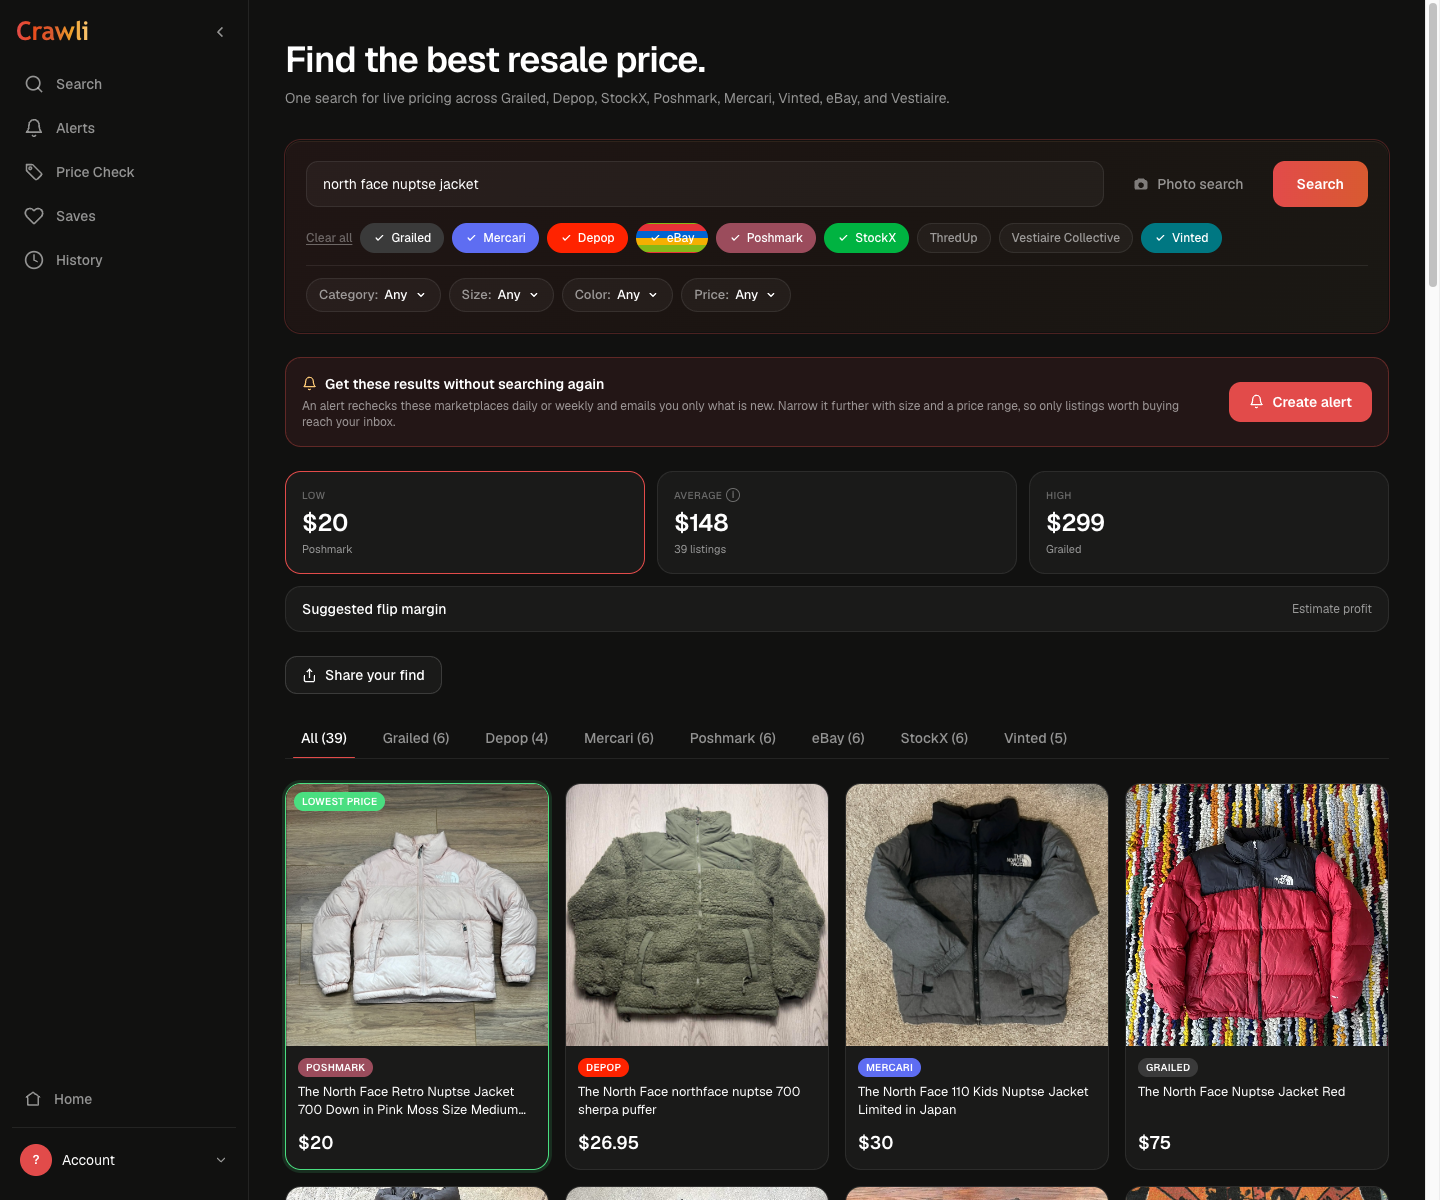
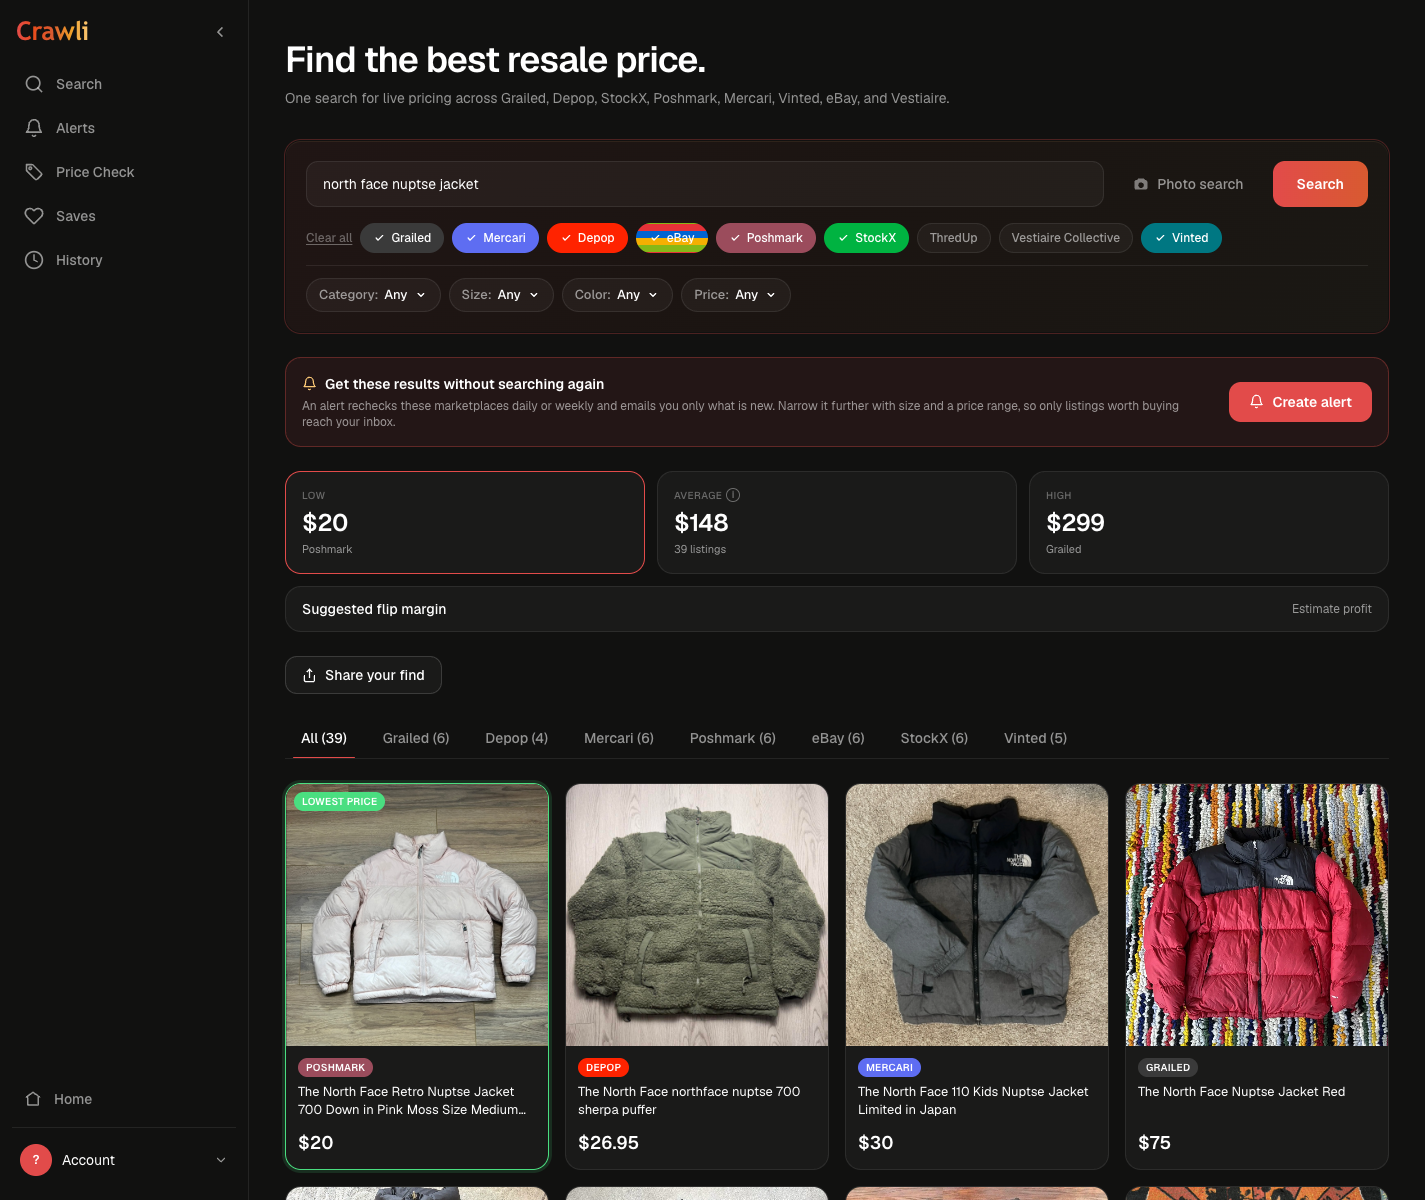
README: uniform nav button color; crop scrollbar from hero screenshot

diff --git a/README.md b/README.md
@@ -15,7 +15,7 @@ I built and ran Crawli solo, in production, from May to September 2026. All 9 pl
   <a href="#building-with-ai"><img src="https://img.shields.io/badge/Building_with_AI-4A4A46?style=for-the-badge" alt="Building with AI"></a>
   <a href="#results--lessons"><img src="https://img.shields.io/badge/Results_%26_lessons-4A4A46?style=for-the-badge" alt="Results & lessons"></a>
   <a href="#stack--repo-map"><img src="https://img.shields.io/badge/Stack_%26_repo_map-4A4A46?style=for-the-badge" alt="Stack & repo map"></a>
-  <a href="#full-teardown"><img src="https://img.shields.io/badge/Full_teardown-E24B4A?style=for-the-badge" alt="Full teardown"></a>
+  <a href="#full-teardown"><img src="https://img.shields.io/badge/Full_teardown-4A4A46?style=for-the-badge" alt="Full teardown"></a>
 </p>
 
 ---
